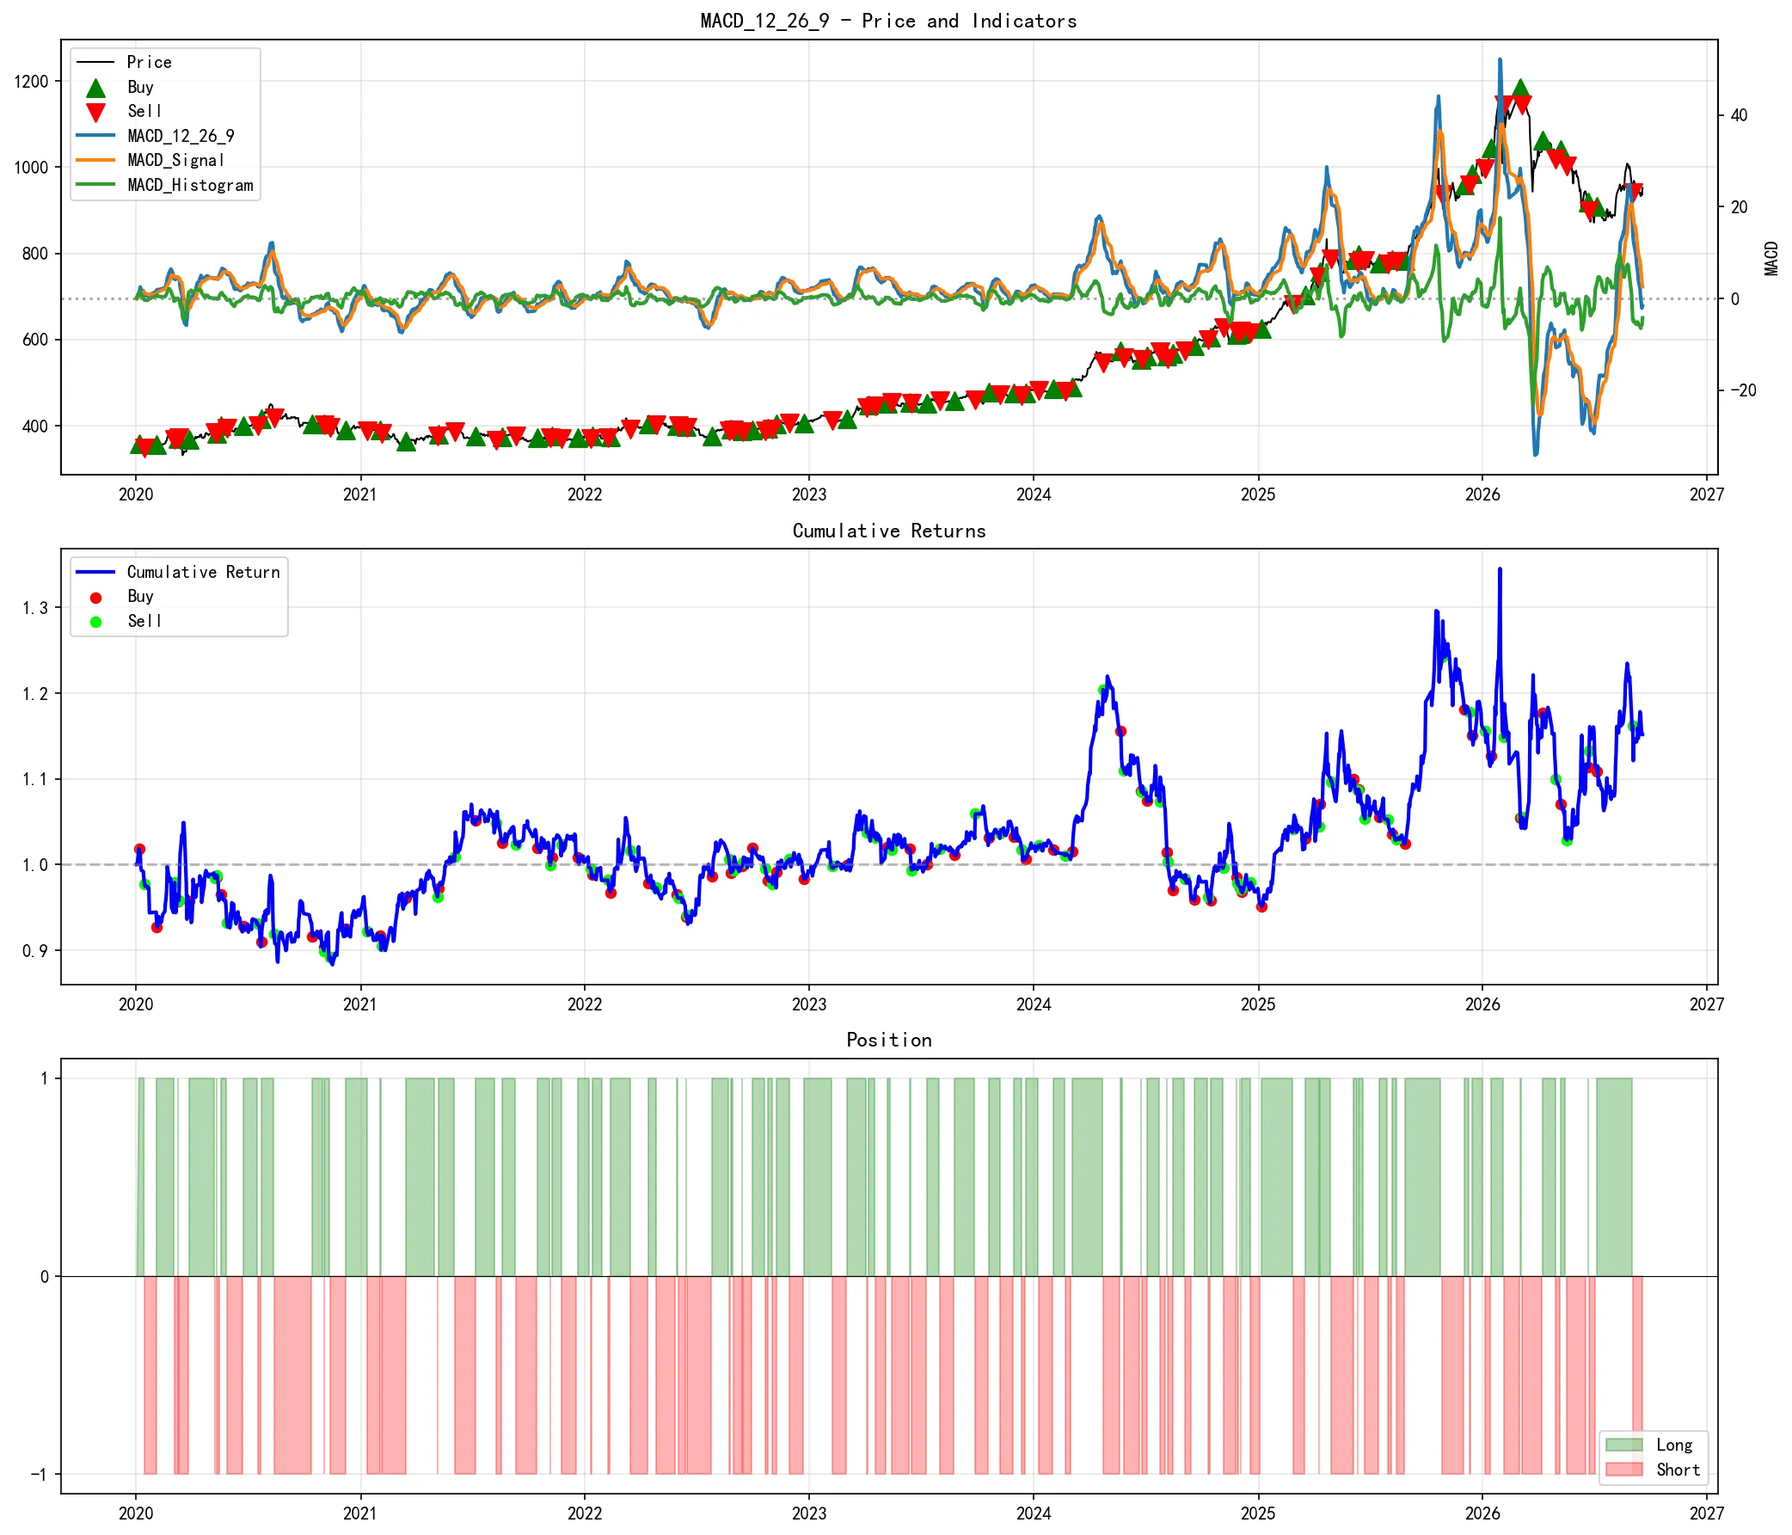
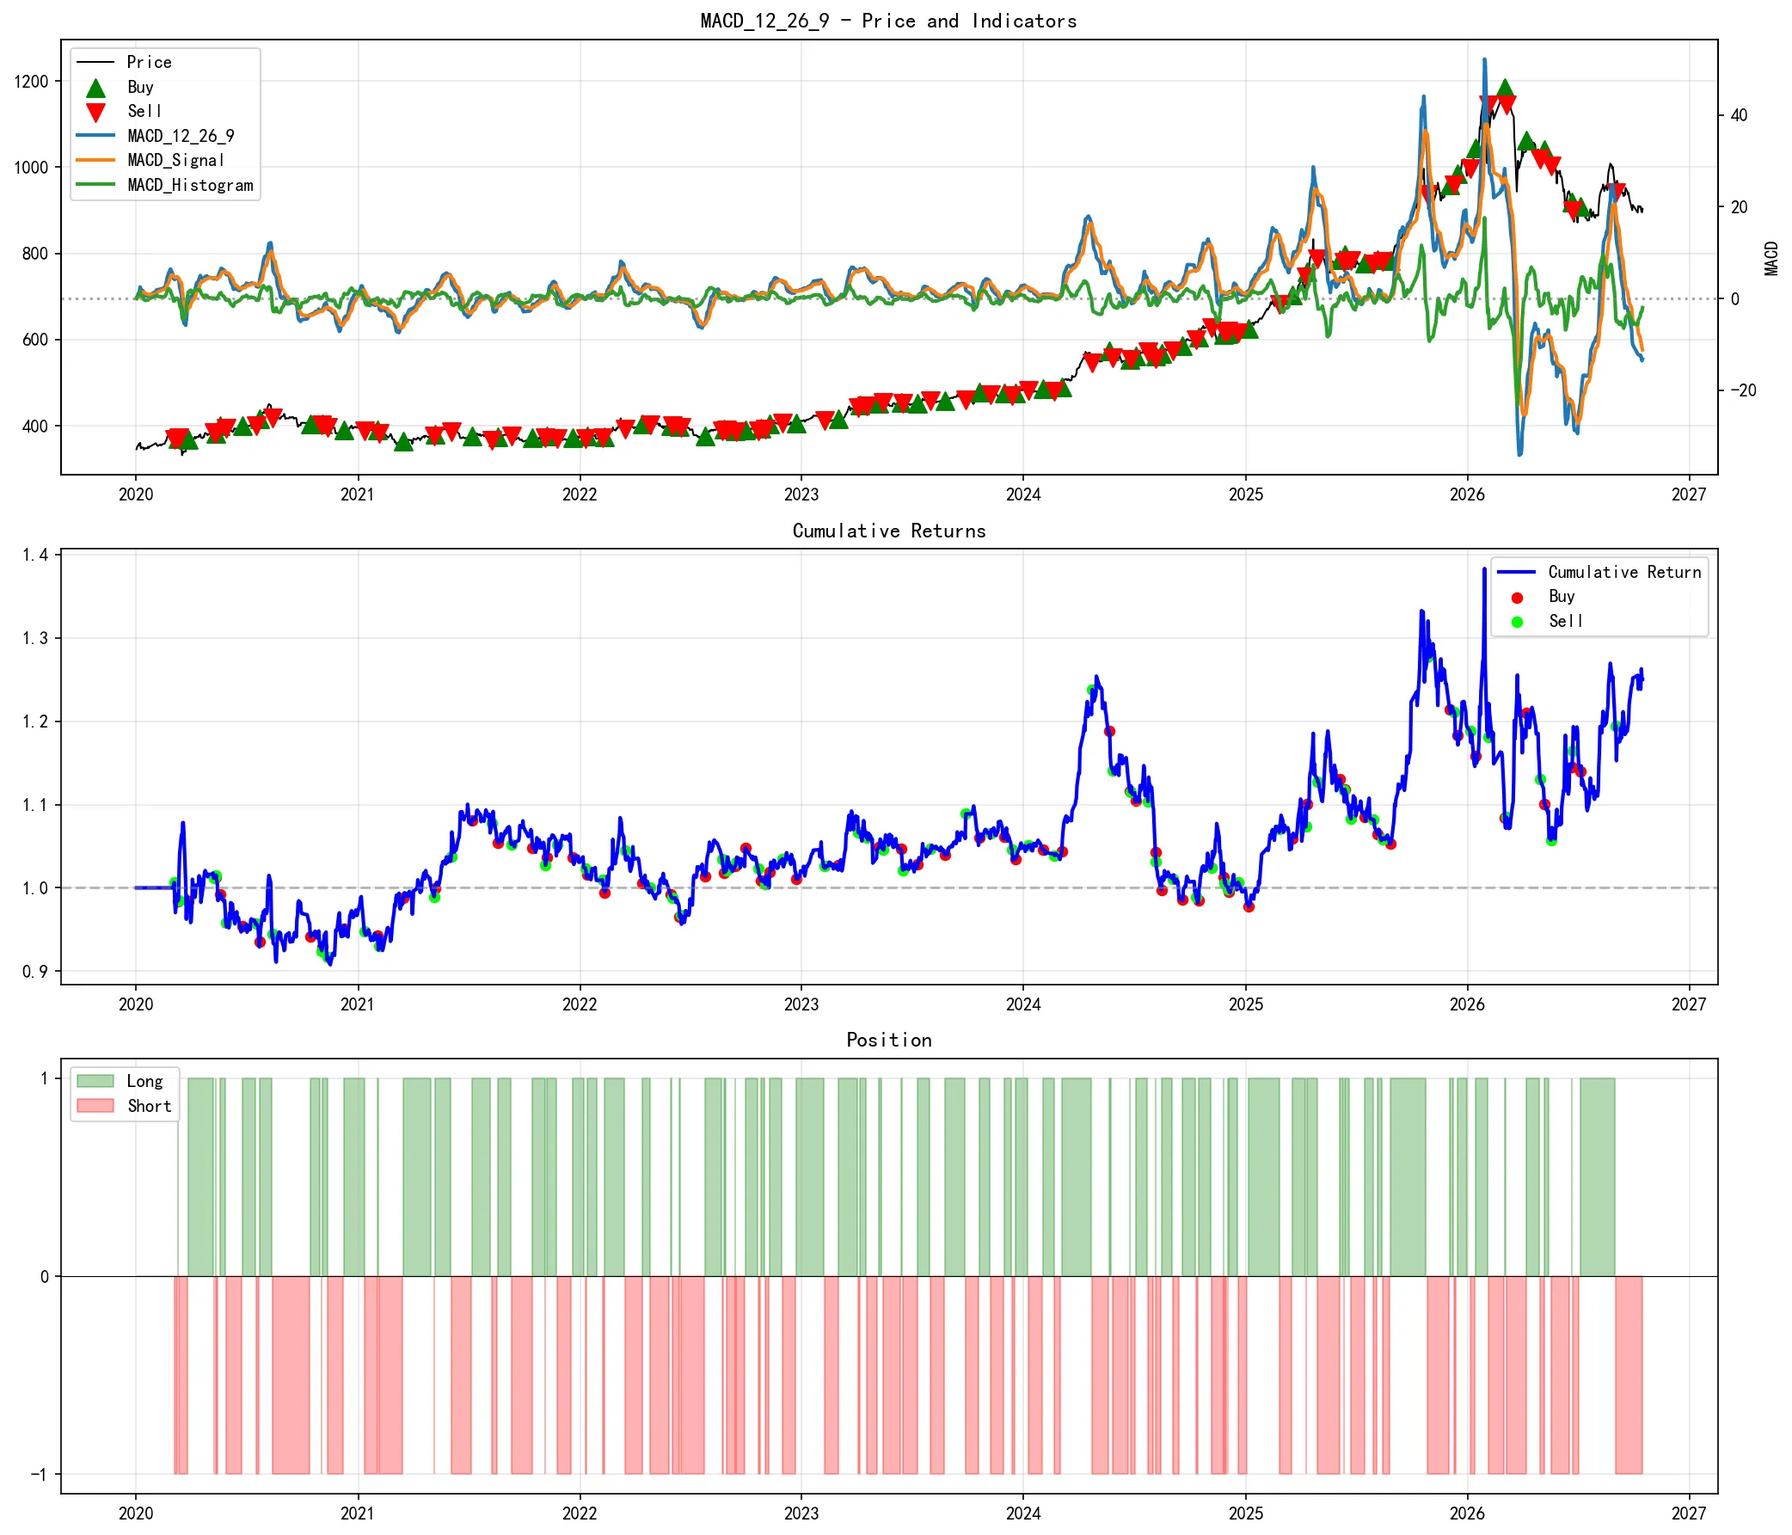
chore: sync quant trading page to 2026-10-16 data
Recompute with 3 bps costs and warm-up masking (headline 138%). Redraw all 10 plots in png and webp; caption now marks win rate and average trade return as gross of fees.

diff --git a/project-quant-trading.html b/project-quant-trading.html
@@ -69,11 +69,11 @@
           <div class="stat-label"><span data-lang="cn">商品品种</span><span data-lang="en">Symbols</span></div>
         </div>
         <div class="stat-card">
-          <div class="stat-number">6.7<span style="font-size:1.2rem">yr</span></div>
+          <div class="stat-number">6.8<span style="font-size:1.2rem">yr</span></div>
           <div class="stat-label"><span data-lang="cn">回测周期</span><span data-lang="en">Backtest Period</span></div>
         </div>
         <div class="stat-card">
-          <div class="stat-number">160<span style="font-size:1.2rem">%</span></div>
+          <div class="stat-number">138<span style="font-size:1.2rem">%</span></div>
           <div class="stat-label"><span data-lang="cn">最高累积收益</span><span data-lang="en">Best Cumulative Return</span></div>
         </div>
       </div>
@@ -123,7 +123,7 @@
       </p>
       <div class="table-wrapper fade-in">
         <table class="perf-table" id="perf-table">
-          <caption><span data-lang="cn">策略性能对比：AUFI.WI 黄金指数回测，信号日 T 收盘生成、T+1 日开盘执行，收益已扣单边 3bps 交易成本</span><span data-lang="en">Strategy performance on AUFI.WI gold index; signals at close on day T, executed at open on T+1; returns net of 3 bps per-side transaction costs</span></caption>
+          <caption><span data-lang="cn">策略性能对比：AUFI.WI 黄金指数回测，信号日 T 收盘生成、T+1 日开盘执行，收益已扣单边 3bps 交易成本（胜率 / 平均交易收益为未扣费毛收益）；指标预热期不出信号</span><span data-lang="en">Strategy performance on AUFI.WI gold index; signals at close on day T, executed at open on T+1; returns net of 3 bps per-side transaction costs (win rate / avg trade return are gross of fees); no signals during indicator warm-up</span></caption>
           <thead>
             <tr>
               <th scope="col"><span data-lang="cn">策略</span><span data-lang="en">Strategy</span></th>
@@ -140,113 +140,113 @@
           <tbody>
             <tr>
               <td><strong>TMA (10/30/90)</strong></td>
-              <td class="highlight">160.16%</td>
-              <td class="highlight">15.31%</td>
-              <td class="highlight">16.51%</td>
-              <td class="highlight">0.98</td>
+              <td class="highlight">137.96%</td>
+              <td class="highlight">13.62%</td>
+              <td class="highlight">15.02%</td>
+              <td class="highlight">0.96</td>
               <td class="negative">-25.99%</td>
-              <td>10</td>
-              <td class="highlight">50.00%</td>
-              <td class="highlight">16.29%</td>
+              <td>9</td>
+              <td class="highlight">44.44%</td>
+              <td class="highlight">16.95%</td>
             </tr>
             <tr>
               <td><strong>TMA (5/20/60)</strong></td>
-              <td class="highlight">118.19%</td>
-              <td class="highlight">12.33%</td>
-              <td class="highlight">16.52%</td>
-              <td class="highlight">0.81</td>
-              <td class="negative">-26.50%</td>
-              <td>15</td>
-              <td class="highlight">40.00%</td>
-              <td class="highlight">9.60%</td>
+              <td class="highlight">126.70%</td>
+              <td class="highlight">12.82%</td>
+              <td class="highlight">15.47%</td>
+              <td class="highlight">0.89</td>
+              <td class="negative">-27.09%</td>
+              <td>14</td>
+              <td class="highlight">50.00%</td>
+              <td class="highlight">10.52%</td>
             </tr>
             <tr>
               <td><strong>EWMA Long-Only</strong></td>
-              <td class="highlight">112.07%</td>
-              <td class="highlight">11.85%</td>
-              <td class="highlight">13.67%</td>
-              <td class="highlight">0.92</td>
+              <td class="highlight">102.29%</td>
+              <td class="highlight">10.94%</td>
+              <td class="highlight">13.30%</td>
+              <td class="highlight">0.88</td>
               <td class="negative">-16.24%</td>
-              <td>93</td>
-              <td class="highlight">47.31%</td>
-              <td class="highlight">0.98%</td>
+              <td>90</td>
+              <td class="highlight">47.78%</td>
+              <td class="highlight">0.96%</td>
             </tr>
             <tr>
               <td><strong>Donchian (50)</strong></td>
-              <td class="highlight">74.39%</td>
-              <td class="highlight">8.64%</td>
-              <td class="highlight">16.52%</td>
-              <td class="highlight">0.60</td>
-              <td class="negative">-28.02%</td>
-              <td>13</td>
-              <td class="highlight">46.15%</td>
-              <td class="highlight">7.23%</td>
-            </tr>
-            <tr>
-              <td><strong>Donchian (20)</strong></td>
-              <td class="highlight">68.56%</td>
-              <td class="highlight">8.09%</td>
-              <td class="highlight">16.53%</td>
-              <td class="highlight">0.57</td>
-              <td class="negative">-22.77%</td>
-              <td>23</td>
-              <td class="highlight">47.83%</td>
-              <td class="highlight">2.80%</td>
+              <td class="highlight">90.25%</td>
+              <td class="highlight">9.94%</td>
+              <td class="highlight">15.59%</td>
+              <td class="highlight">0.71</td>
+              <td class="negative">-26.07%</td>
+              <td>11</td>
+              <td class="highlight">54.55%</td>
+              <td class="highlight">9.31%</td>
             </tr>
             <tr>
               <td><strong>EWMA Long-Short</strong></td>
-              <td class="highlight">57.84%</td>
-              <td class="highlight">7.04%</td>
-              <td class="highlight">16.53%</td>
-              <td class="highlight">0.51</td>
+              <td class="highlight">59.68%</td>
+              <td class="highlight">7.14%</td>
+              <td class="highlight">16.27%</td>
+              <td class="highlight">0.52</td>
               <td class="negative">-19.67%</td>
-              <td>186</td>
-              <td class="highlight">37.10%</td>
-              <td class="highlight">0.38%</td>
+              <td>181</td>
+              <td class="highlight">37.57%</td>
+              <td class="highlight">0.39%</td>
+            </tr>
+            <tr>
+              <td><strong>Donchian (20)</strong></td>
+              <td class="highlight">55.07%</td>
+              <td class="highlight">6.68%</td>
+              <td class="highlight">16.42%</td>
+              <td class="highlight">0.49</td>
+              <td class="negative">-22.77%</td>
+              <td>24</td>
+              <td class="highlight">45.83%</td>
+              <td class="highlight">2.35%</td>
             </tr>
             <tr>
               <td><strong>MACD</strong></td>
-              <td class="highlight">15.17%</td>
-              <td class="highlight">2.13%</td>
-              <td class="highlight">16.54%</td>
-              <td class="highlight">0.22</td>
+              <td class="highlight">25.02%</td>
+              <td class="highlight">3.34%</td>
+              <td class="highlight">16.27%</td>
+              <td class="highlight">0.29</td>
               <td class="negative">-23.56%</td>
-              <td>136</td>
-              <td class="highlight">37.50%</td>
-              <td class="highlight">0.24%</td>
+              <td>133</td>
+              <td class="highlight">38.35%</td>
+              <td class="highlight">0.31%</td>
             </tr>
             <tr>
               <td><strong>RSI</strong></td>
-              <td class="negative">-37.29%</td>
-              <td class="negative">-6.72%</td>
+              <td class="negative">-33.78%</td>
+              <td class="negative">-5.89%</td>
               <td class="highlight">16.37%</td>
-              <td class="negative">-0.36</td>
+              <td class="negative">-0.30</td>
               <td class="negative">-62.49%</td>
               <td>11</td>
               <td class="highlight">54.55%</td>
-              <td class="negative">-5.42%</td>
+              <td class="negative">-4.93%</td>
             </tr>
             <tr>
               <td><strong>Bollinger (20, 2.0)</strong></td>
-              <td class="negative">-47.24%</td>
-              <td class="negative">-9.09%</td>
-              <td class="highlight">16.53%</td>
+              <td class="negative">-47.43%</td>
+              <td class="negative">-9.04%</td>
+              <td class="highlight">16.36%</td>
               <td class="negative">-0.52</td>
               <td class="negative">-60.14%</td>
               <td>26</td>
               <td class="highlight">57.69%</td>
-              <td class="negative">-2.21%</td>
+              <td class="negative">-2.24%</td>
             </tr>
             <tr>
               <td><strong>Bollinger (20, 1.5)</strong></td>
-              <td class="negative">-63.12%</td>
-              <td class="negative">-13.81%</td>
-              <td class="highlight">16.51%</td>
-              <td class="negative">-0.85</td>
+              <td class="negative">-60.94%</td>
+              <td class="negative">-12.93%</td>
+              <td class="highlight">16.29%</td>
+              <td class="negative">-0.80</td>
               <td class="negative">-69.64%</td>
               <td>34</td>
-              <td class="highlight">52.94%</td>
-              <td class="negative">-2.75%</td>
+              <td class="highlight">50.00%</td>
+              <td class="negative">-2.58%</td>
             </tr>
           </tbody>
         </table>
@@ -265,44 +265,44 @@
       <p class="section-subtitle fade-in" style="text-align:center"><span data-lang="cn">点击图片可放大查看</span><span data-lang="en">Click to enlarge</span></p>
       <div class="gallery">
         <div class="gallery-item fade-in">
-          <picture><source srcset="assets/plots/TMA_5_20_60.webp" type="image/webp"><img src="assets/plots/TMA_5_20_60.png" alt="TMA 5/20/60" width="2082" height="1785" loading="lazy" decoding="async"></picture>
-          <div class="gallery-caption">TMA (5/20/60) — <span data-lang="cn">累积收益 118.19%</span><span data-lang="en">Cumulative Return 118.19%</span></div>
+          <picture><source srcset="assets/plots/TMA_5_20_60.webp" type="image/webp"><img src="assets/plots/TMA_5_20_60.png" alt="TMA 5/20/60" width="2085" height="1785" loading="lazy" decoding="async"></picture>
+          <div class="gallery-caption">TMA (5/20/60) — <span data-lang="cn">累积收益 126.70%</span><span data-lang="en">Cumulative Return 126.70%</span></div>
         </div>
         <div class="gallery-item fade-in">
-          <picture><source srcset="assets/plots/TMA_10_30_90.webp" type="image/webp"><img src="assets/plots/TMA_10_30_90.png" alt="TMA 10/30/90" width="2082" height="1785" loading="lazy" decoding="async"></picture>
-          <div class="gallery-caption">TMA (10/30/90) — <span data-lang="cn">累积收益 160.16%</span><span data-lang="en">Cumulative Return 160.16%</span></div>
+          <picture><source srcset="assets/plots/TMA_10_30_90.webp" type="image/webp"><img src="assets/plots/TMA_10_30_90.png" alt="TMA 10/30/90" width="2085" height="1785" loading="lazy" decoding="async"></picture>
+          <div class="gallery-caption">TMA (10/30/90) — <span data-lang="cn">累积收益 137.96%</span><span data-lang="en">Cumulative Return 137.96%</span></div>
         </div>
         <div class="gallery-item fade-in">
-          <picture><source srcset="assets/plots/EWMA_LONG_ONLY_30.webp" type="image/webp"><img src="assets/plots/EWMA_LONG_ONLY_30.png" alt="EWMA Long-Only" width="2082" height="1785" loading="lazy" decoding="async"></picture>
-          <div class="gallery-caption">EWMA Long-Only — <span data-lang="cn">累积收益 112.07%</span><span data-lang="en">Cumulative Return 112.07%</span></div>
+          <picture><source srcset="assets/plots/EWMA_LONG_ONLY_30.webp" type="image/webp"><img src="assets/plots/EWMA_LONG_ONLY_30.png" alt="EWMA Long-Only" width="2085" height="1785" loading="lazy" decoding="async"></picture>
+          <div class="gallery-caption">EWMA Long-Only — <span data-lang="cn">累积收益 102.29%</span><span data-lang="en">Cumulative Return 102.29%</span></div>
         </div>
         <div class="gallery-item fade-in">
-          <picture><source srcset="assets/plots/DONCHIAN_20.webp" type="image/webp"><img src="assets/plots/DONCHIAN_20.png" alt="Donchian 20" width="2082" height="1785" loading="lazy" decoding="async"></picture>
-          <div class="gallery-caption">Donchian (20) — <span data-lang="cn">累积收益 68.56%</span><span data-lang="en">Cumulative Return 68.56%</span></div>
+          <picture><source srcset="assets/plots/DONCHIAN_20.webp" type="image/webp"><img src="assets/plots/DONCHIAN_20.png" alt="Donchian 20" width="2085" height="1785" loading="lazy" decoding="async"></picture>
+          <div class="gallery-caption">Donchian (20) — <span data-lang="cn">累积收益 55.07%</span><span data-lang="en">Cumulative Return 55.07%</span></div>
         </div>
         <div class="gallery-item fade-in">
-          <picture><source srcset="assets/plots/DONCHIAN_50.webp" type="image/webp"><img src="assets/plots/DONCHIAN_50.png" alt="Donchian 50" width="2082" height="1785" loading="lazy" decoding="async"></picture>
-          <div class="gallery-caption">Donchian (50) — <span data-lang="cn">累积收益 74.39%</span><span data-lang="en">Cumulative Return 74.39%</span></div>
+          <picture><source srcset="assets/plots/DONCHIAN_50.webp" type="image/webp"><img src="assets/plots/DONCHIAN_50.png" alt="Donchian 50" width="2085" height="1785" loading="lazy" decoding="async"></picture>
+          <div class="gallery-caption">Donchian (50) — <span data-lang="cn">累积收益 90.25%</span><span data-lang="en">Cumulative Return 90.25%</span></div>
         </div>
         <div class="gallery-item fade-in">
-          <picture><source srcset="assets/plots/EWMA_30.webp" type="image/webp"><img src="assets/plots/EWMA_30.png" alt="EWMA Long-Short" width="2082" height="1785" loading="lazy" decoding="async"></picture>
-          <div class="gallery-caption">EWMA Long-Short — <span data-lang="cn">累积收益 57.84%</span><span data-lang="en">Cumulative Return 57.84%</span></div>
+          <picture><source srcset="assets/plots/EWMA_30.webp" type="image/webp"><img src="assets/plots/EWMA_30.png" alt="EWMA Long-Short" width="2085" height="1785" loading="lazy" decoding="async"></picture>
+          <div class="gallery-caption">EWMA Long-Short — <span data-lang="cn">累积收益 59.68%</span><span data-lang="en">Cumulative Return 59.68%</span></div>
         </div>
         <div class="gallery-item fade-in">
           <picture><source srcset="assets/plots/MACD_12_26_9.webp" type="image/webp"><img src="assets/plots/MACD_12_26_9.png" alt="MACD" width="2084" height="1785" loading="lazy" decoding="async"></picture>
-          <div class="gallery-caption">MACD (12/26/9) — <span data-lang="cn">累积收益 15.17%</span><span data-lang="en">Cumulative Return 15.17%</span></div>
+          <div class="gallery-caption">MACD (12/26/9) — <span data-lang="cn">累积收益 25.02%</span><span data-lang="en">Cumulative Return 25.02%</span></div>
         </div>
         <div class="gallery-item fade-in">
           <picture><source srcset="assets/plots/RSI_14_30_70.webp" type="image/webp"><img src="assets/plots/RSI_14_30_70.png" alt="RSI" width="2085" height="1785" loading="lazy" decoding="async"></picture>
-          <div class="gallery-caption">RSI (14, 30/70) — <span data-lang="cn">累积收益 -37.29%</span><span data-lang="en">Cumulative Return -37.29%</span></div>
+          <div class="gallery-caption">RSI (14, 30/70) — <span data-lang="cn">累积收益 -33.78%</span><span data-lang="en">Cumulative Return -33.78%</span></div>
         </div>
         <div class="gallery-item fade-in">
-          <picture><source srcset="assets/plots/BOLLINGER_20_2.webp" type="image/webp"><img src="assets/plots/BOLLINGER_20_2.png" alt="Bollinger 2.0" width="2082" height="1785" loading="lazy" decoding="async"></picture>
-          <div class="gallery-caption">Bollinger (20, 2.0) — <span data-lang="cn">累积收益 -47.24%</span><span data-lang="en">Cumulative Return -47.24%</span></div>
+          <picture><source srcset="assets/plots/BOLLINGER_20_2.webp" type="image/webp"><img src="assets/plots/BOLLINGER_20_2.png" alt="Bollinger 2.0" width="2085" height="1785" loading="lazy" decoding="async"></picture>
+          <div class="gallery-caption">Bollinger (20, 2.0) — <span data-lang="cn">累积收益 -47.43%</span><span data-lang="en">Cumulative Return -47.43%</span></div>
         </div>
         <div class="gallery-item fade-in">
-          <picture><source srcset="assets/plots/BOLLINGER_20_1.5.webp" type="image/webp"><img src="assets/plots/BOLLINGER_20_1.5.png" alt="Bollinger 1.5" width="2082" height="1785" loading="lazy" decoding="async"></picture>
-          <div class="gallery-caption">Bollinger (20, 1.5) — <span data-lang="cn">累积收益 -63.12%</span><span data-lang="en">Cumulative Return -63.12%</span></div>
+          <picture><source srcset="assets/plots/BOLLINGER_20_1.5.webp" type="image/webp"><img src="assets/plots/BOLLINGER_20_1.5.png" alt="Bollinger 1.5" width="2085" height="1785" loading="lazy" decoding="async"></picture>
+          <div class="gallery-caption">Bollinger (20, 1.5) — <span data-lang="cn">累积收益 -60.94%</span><span data-lang="en">Cumulative Return -60.94%</span></div>
         </div>
       </div>
     </div>
